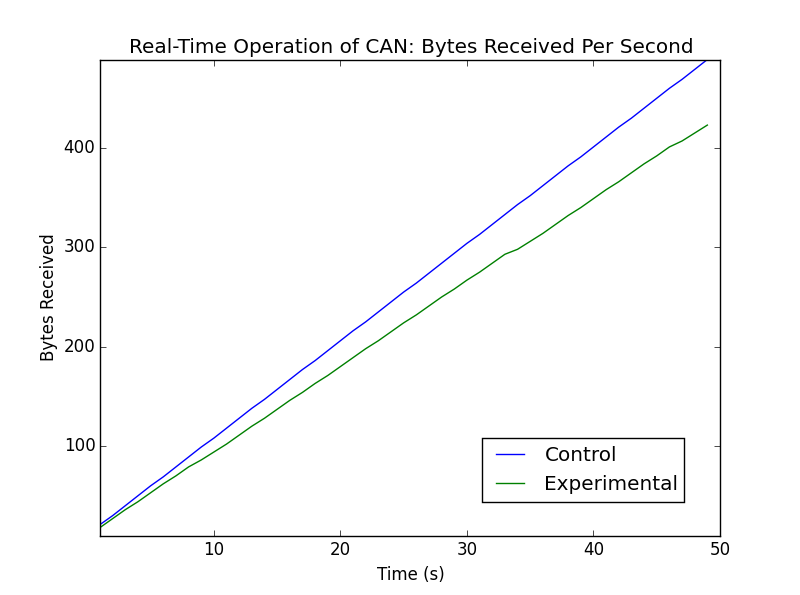
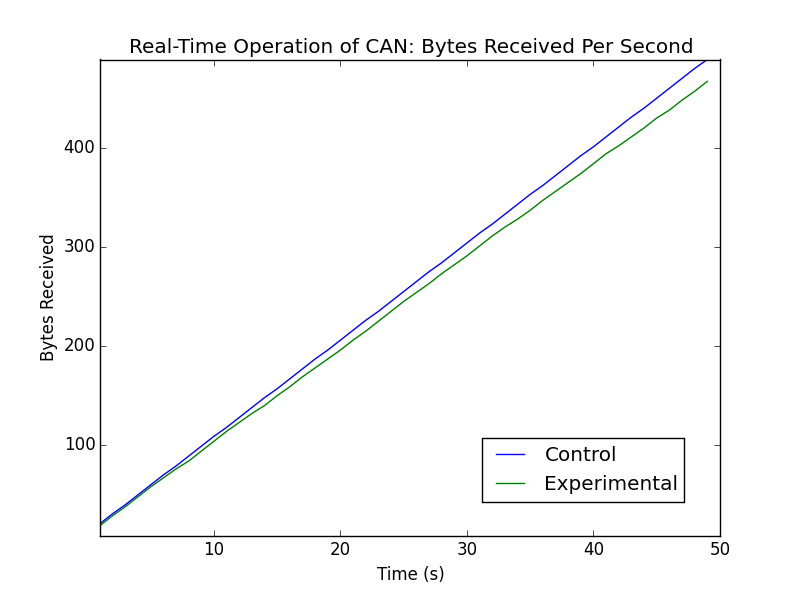
Improved and removed old code for 'sender' node and measured new logs and figures

diff --git a/src/CAN/logs/SHA1/README.md b/src/CAN/logs/SHA1/README.md
@@ -28,21 +28,21 @@ Bus shields were initialized to communicate at *up to* 500 Kbits/s.
 
 ### Experimental Group
 #### Log |  Average Bytes Received Per Second
-1. 69.06
-2. 67.92
-**Total Average:** 68.49
+1. 75.92
+2. 76.24
+**Total Average:** 76.08
 
 ---
 
 ### Percent Decrease in Average Bytes Received Per Second:
 #### Log |  Percent Decrease
-1. 13.41%  
-2. 14.91%  
-**Total Average:** 14.61%  
+1. 4.91%  
+2. 4.51%  
+**Total Average:** 4.71%
 
 Thus, we can infer that, given a real CAN Bus running at 500 kbit/s, 
-the security measures proposed would slow the network speed to ~427 kbit/s. 
-And one running at 1 Mbit/s would theoretically slow to ~874 kbit/s. Of course, these 
+the security measures proposed would slow the network speed to ~476.45 kbit/s. 
+And one running at 1 Mbit/s would theoretically slow to ~975.77 kbit/s. Of course, these 
 values still might be altered by the specific hardware used on nodes in the CAN Bus.  
 
 ---
@@ -60,14 +60,6 @@ may vary with different CPUs. Thus the "normal" values shown here should not
 be compared directly to that of a real CAN Bus within an automobile. Rather, 
 this data is focused towards a percentage decrease and then applied theoretically 
 towards an actual CAN Bus found in automobiles and other contexts.  
-
-### Time Measurement to Update SHA-1 Hash
-The average time it took to update the SHA-1 hash (not actually created the HMAC),
-was 3973.04 microseconds, or 3.97304 milliseconds. *Note:* this value is part
-of the time measurement to create the full authentication messages (below).  
-
-![alt tag](https://raw.githubusercontent.com/zach-king/ArduinoStash/master/src/CAN/figures/SHA1/time-measurement-01.png)  
-
 
 ### Time Measurement to Fully Sign and Send Authentication Messages
 The complete time it took to create the HMAC and timestamp authentication
